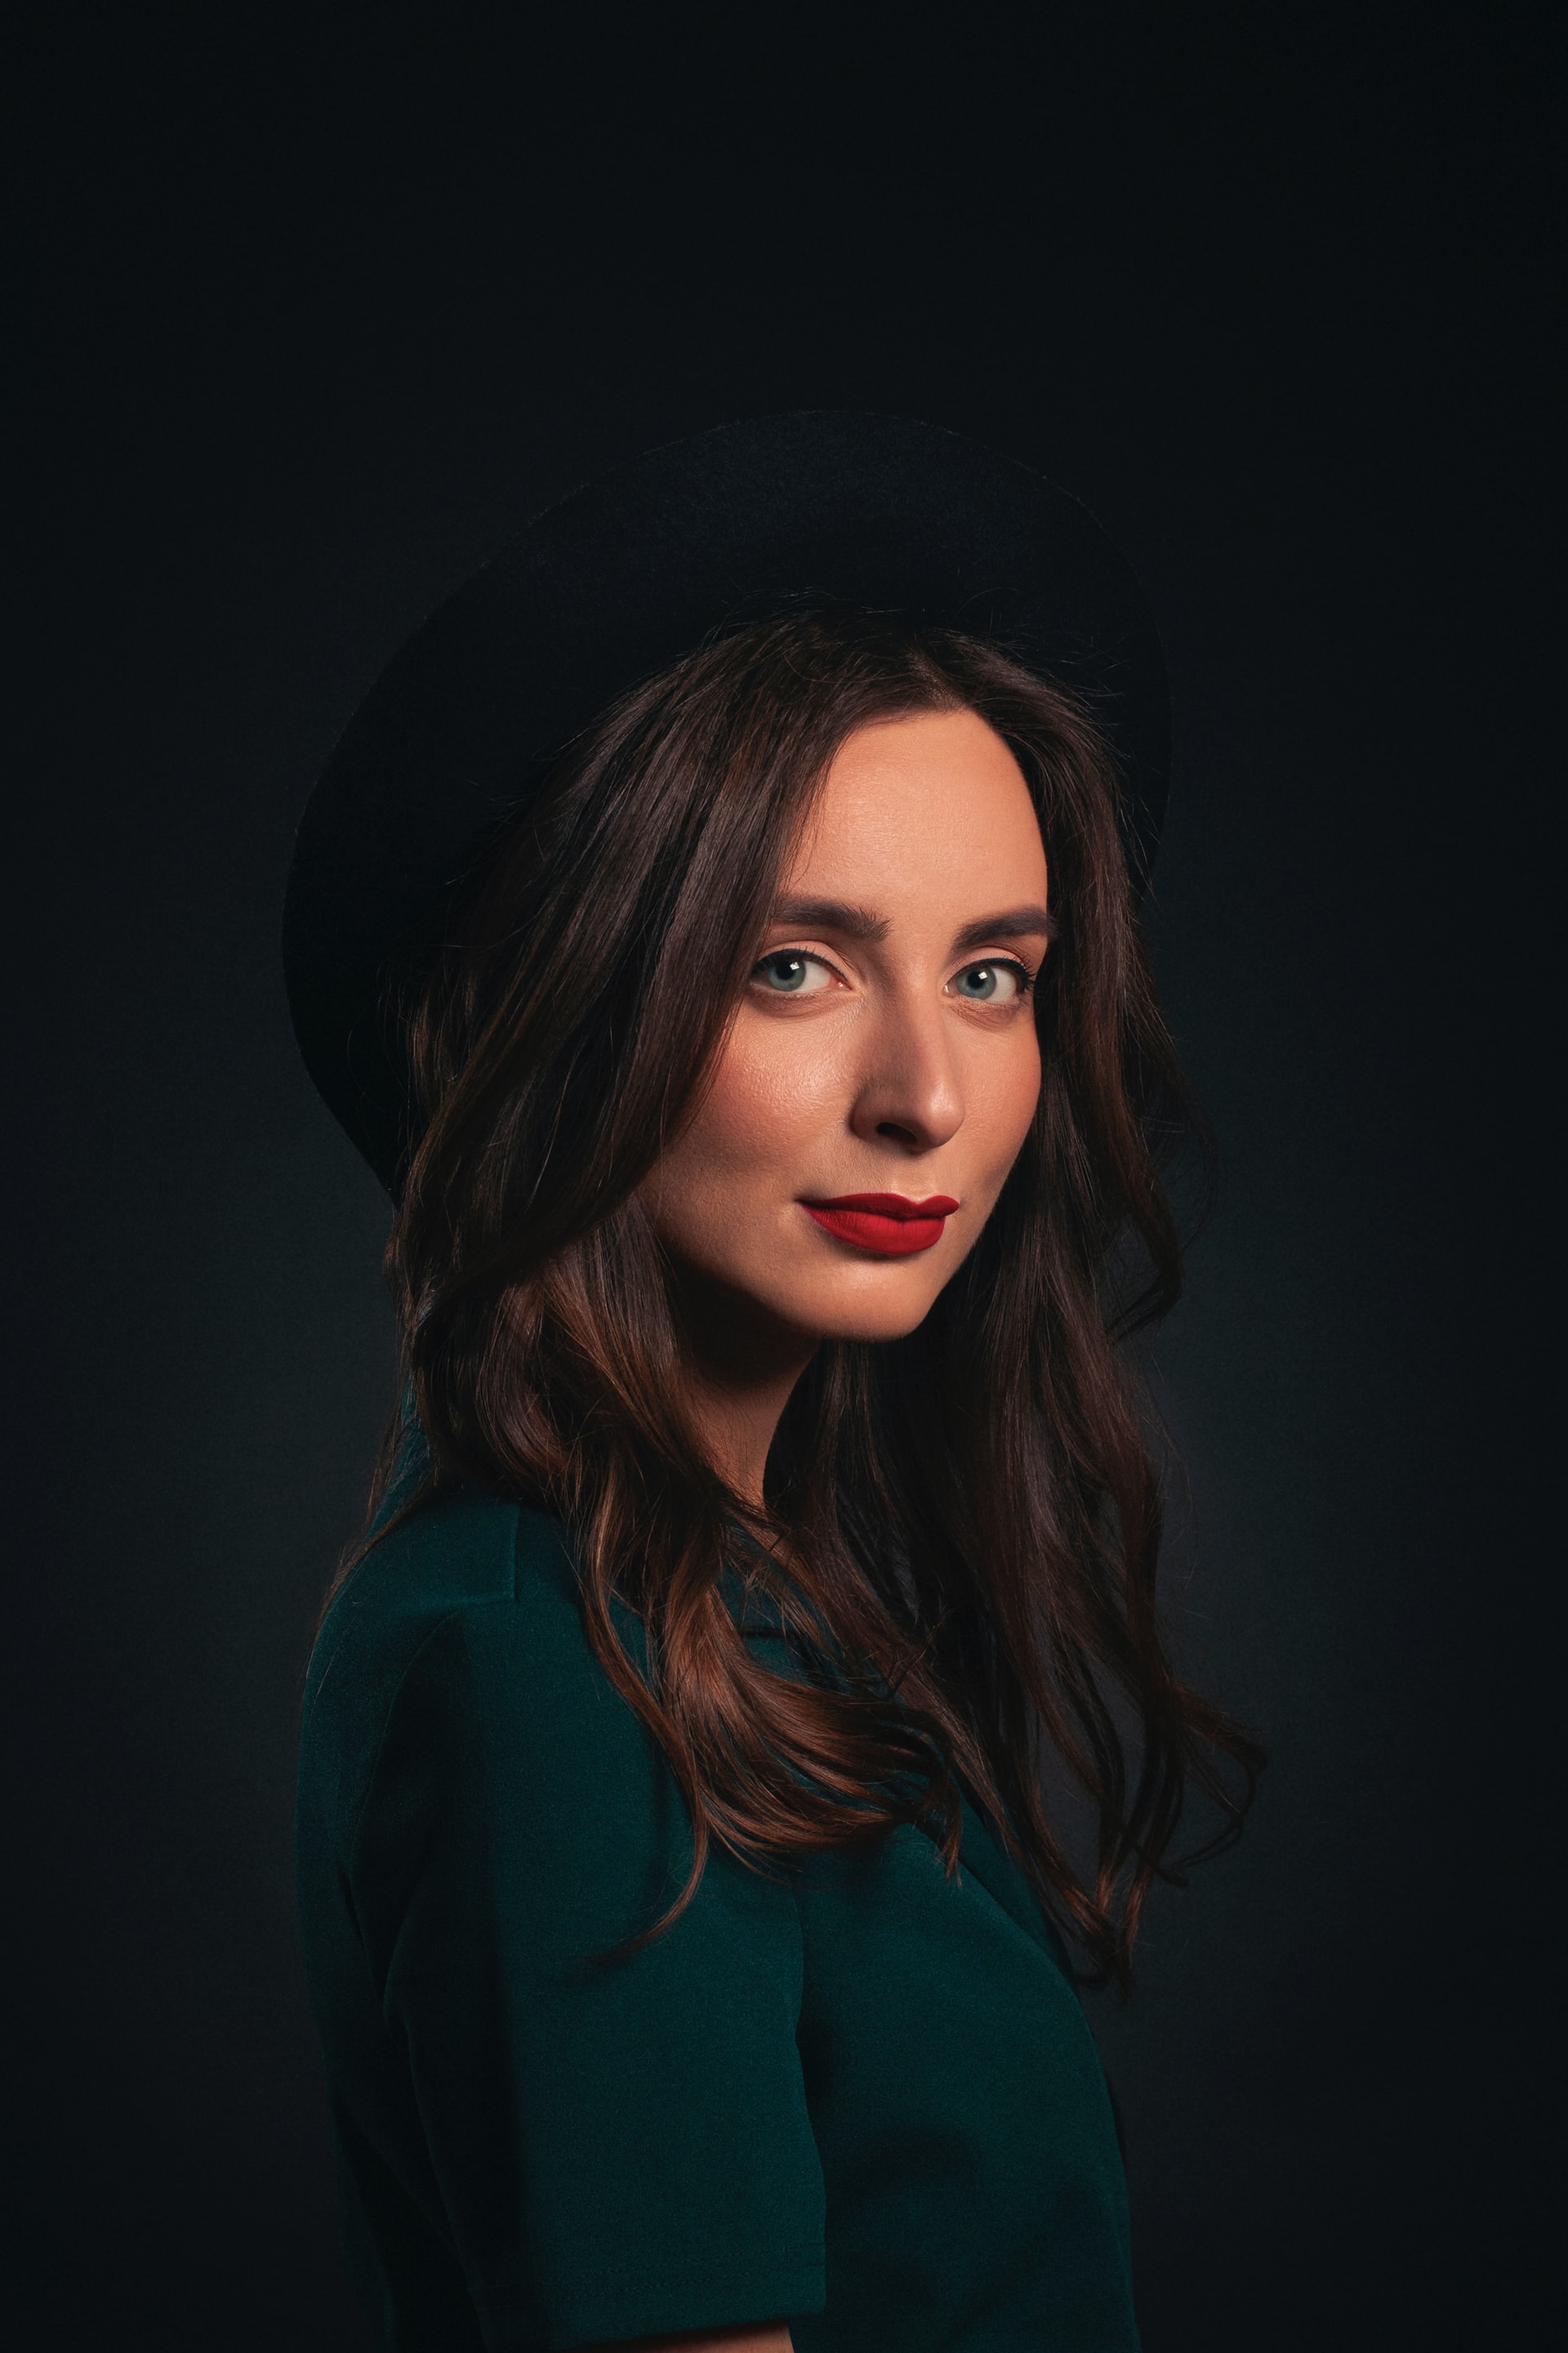
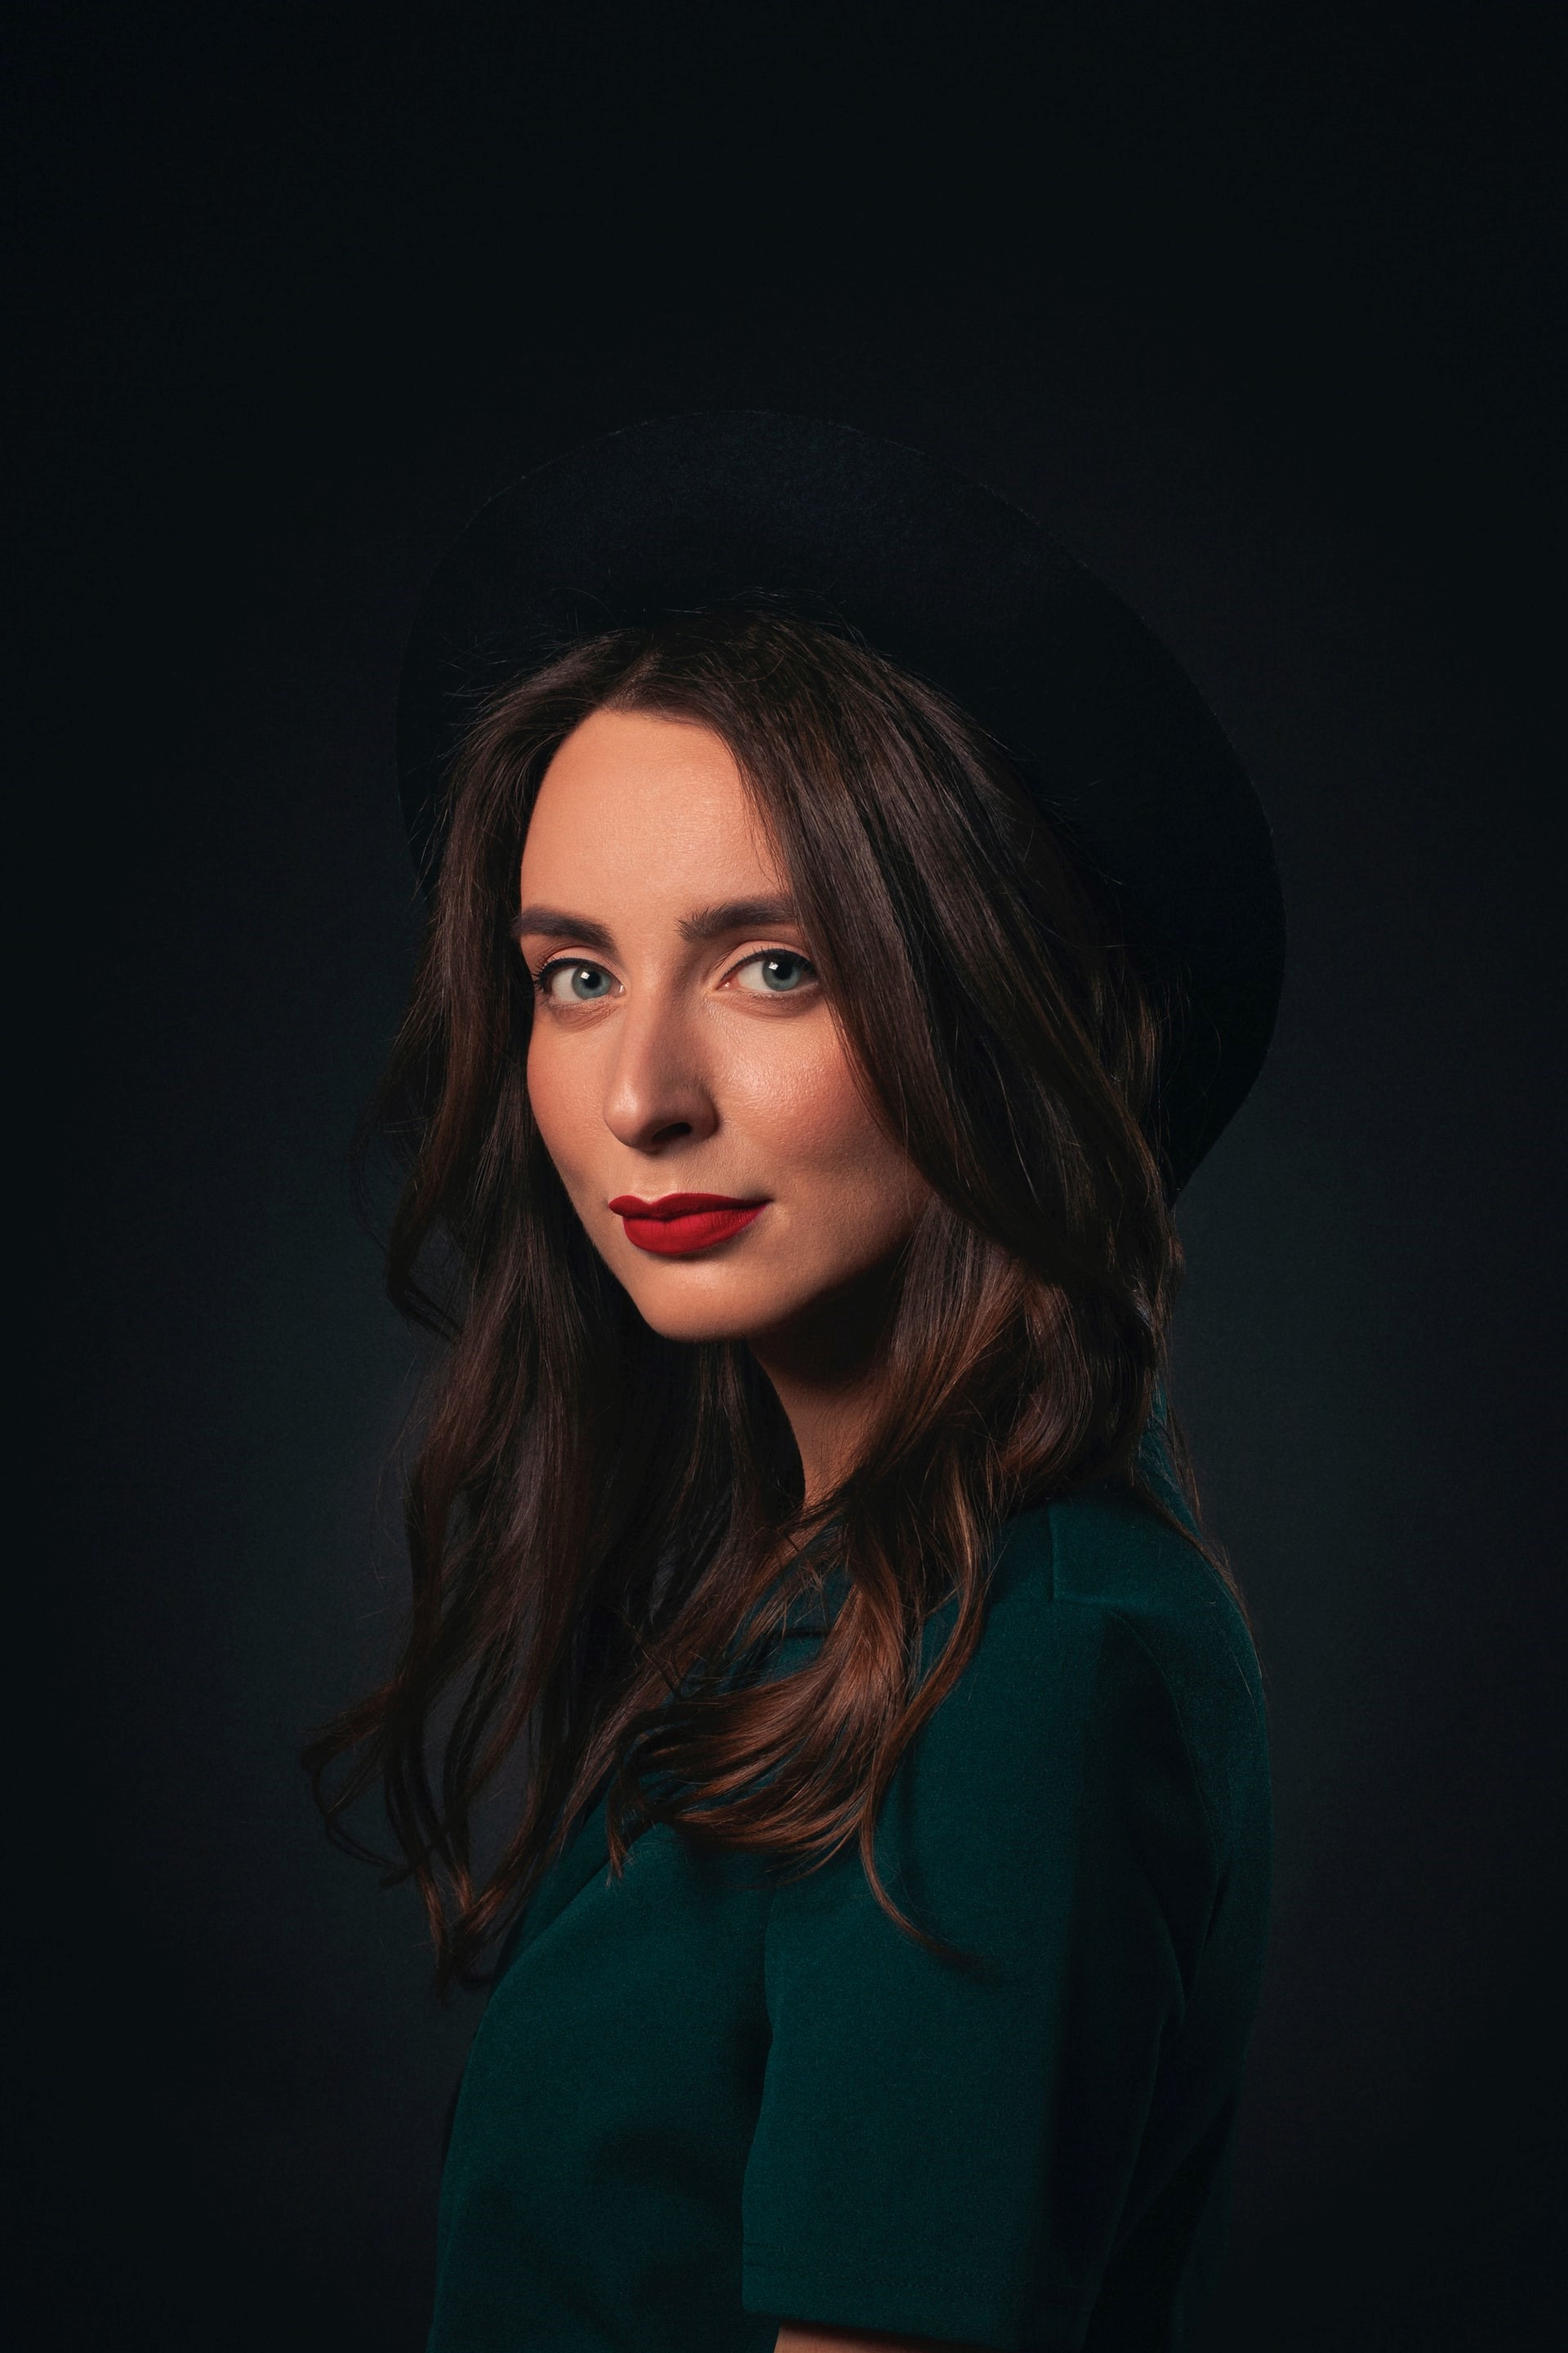
added profile img

diff --git a/assets/css/style.css b/assets/css/style.css
@@ -44,8 +44,15 @@ header {
   min-height: 100vh;
   overflow: hidden;
   width: 100%;
+  background-image: url("../../img/profile.jpg");
+  background-position: center;
+  background-repeat: no-repeat;
+  background-size: cover;
 }
 
+.header__img {
+  width: 100%;
+}
 
 h1 {
   font-family: "Libre Franklin", sans-serif;
@@ -113,6 +120,7 @@ text-shadow: -1px -1px 0 white,
 
 .section__intro {
   font-size: 14px;
+  font-weight: 500;
   line-height: 1.1;
   margin-bottom: 40px;
 }

diff --git a/index.html b/index.html
@@ -9,6 +9,7 @@
   <body>
     <main class="wrapper">
       <header>
+        <!-- <img class="header__img" src="img/profile.jpg"> -->
         <h1>Nora writes awe&shy;some copy</h1>
       </header>
       <hr>
